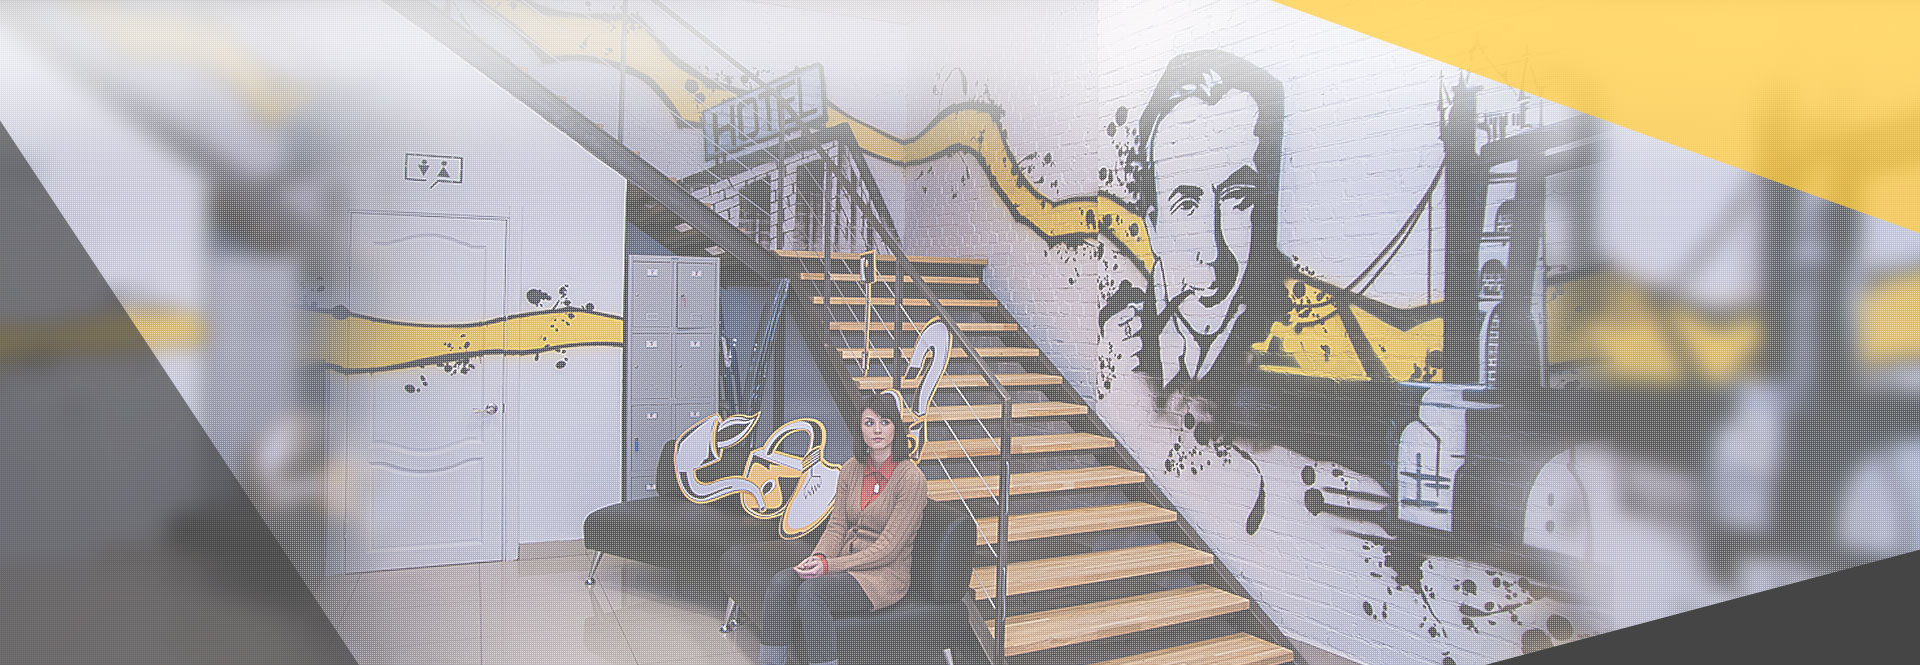
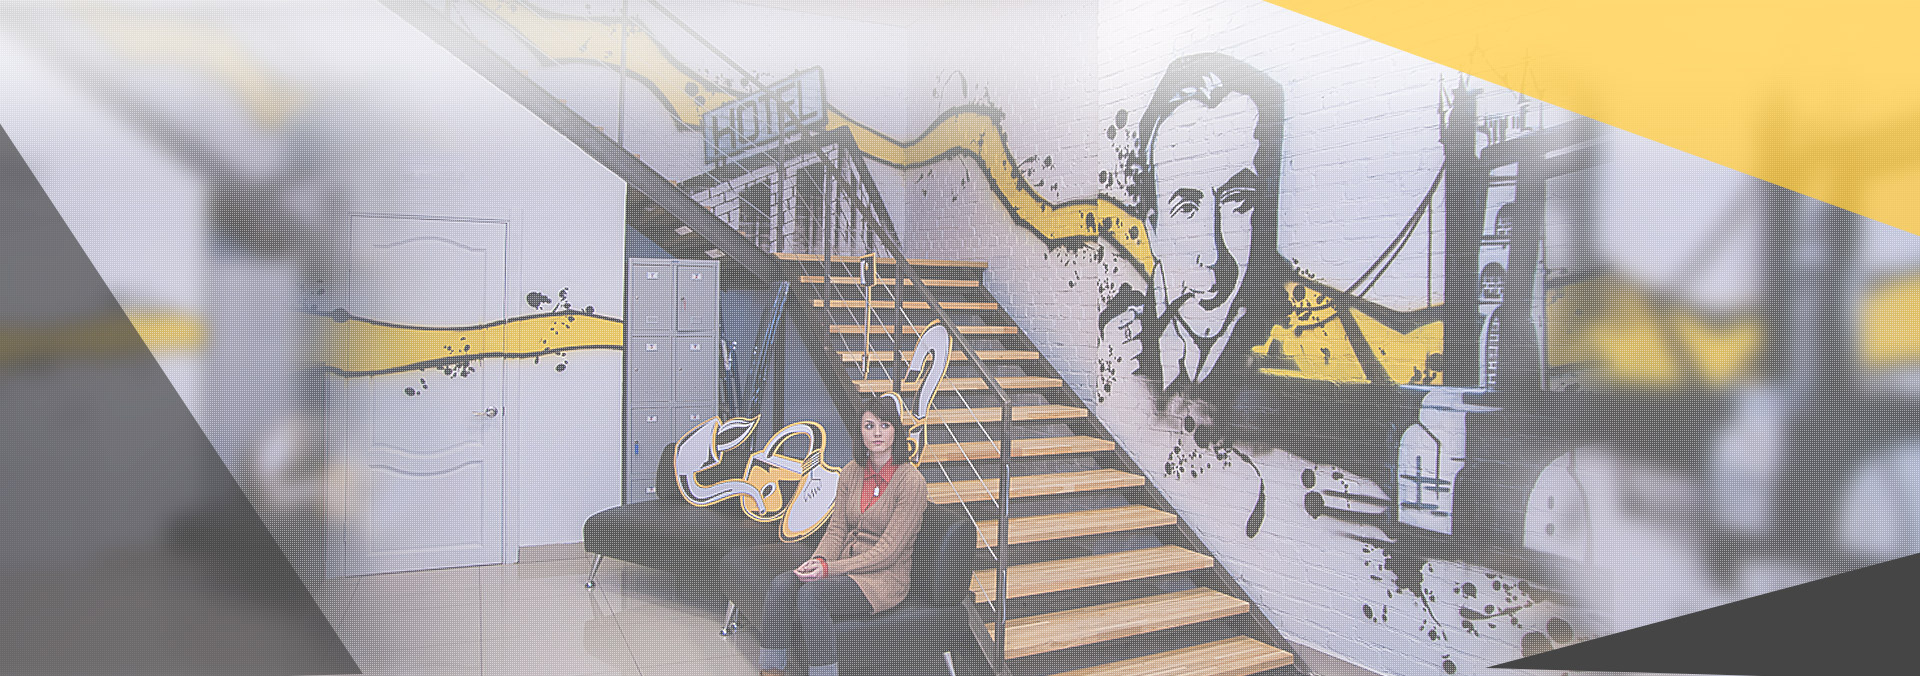
no message

diff --git a/index.html b/index.html
@@ -229,7 +229,7 @@
 								<div class="b-list-cont-text">
 									<h3>Поддержка франчайзи на всем<br>протяжении Партнерства</h3>
 									<hr noshade>
-									<p>Более 150 часов поддержки при запуске, более 10 часов еженедельно времени лично собвтенников компании.<br>Мы всегда на свзяи, чтобы помочь Вам</p>
+									<p>Более 150 часов поддержки при запуске, более 10 часов еженедельно времени лично собственников компании.<br>Мы всегда на связи, чтобы помочь Вам</p>
 								</div>
 								<img src="images/b5-border_bot.png" class="b-border-bot">
 							</div>
@@ -522,12 +522,12 @@
 							<span>
 								<span class="bold">дата открытия</span>
 								 01.01.15
-								 <img src="images/black-point.png">
-								 <span class="bold">период оккупаемости</span> 
-								 7 месяцев
+								 <!-- <img src="images/black-point.png"> -->
+								 <!-- <span class="bold">период оккупаемости</span> 
+								 7 месяцев -->
 							</span>
 							<hr noshade>
-							<p>Тут будет размещен небольшой отзыв или история от франчайзи<br>Lorem ipsum dolor sit amet, consectetur adipiscing elit, sed do eiusmod tempor incididunt ut labore et dolore magna aliqua. Ut enim ad minim veniam, quis nostrud exercitation.</p>
+							<p>Я работала на крупной радиостанции и добилась значительных успехов в довльно крупных проектах. Узнав про квесты решила привезти их в наш город, при этом не хотела расставаться с работой. Я была первой франчайзи у Эврика</p>
 						</div>
 						<img src="images/b9-cloud2.png" class="b-cloud2">
 						<img src="images/b9-cloud3.png" class="b-cloud3">

diff --git a/css/layout.css b/css/layout.css
@@ -216,7 +216,7 @@ input:-moz-placeholder {
 			}
 
 .b-2 {
-	background-image: url(../images/b2-fon2.jpg);
+	background-image: url(../images/b2-fon.jpg);
 	background-position: center;
 	background-size: cover;
 	padding-top: 298px;
